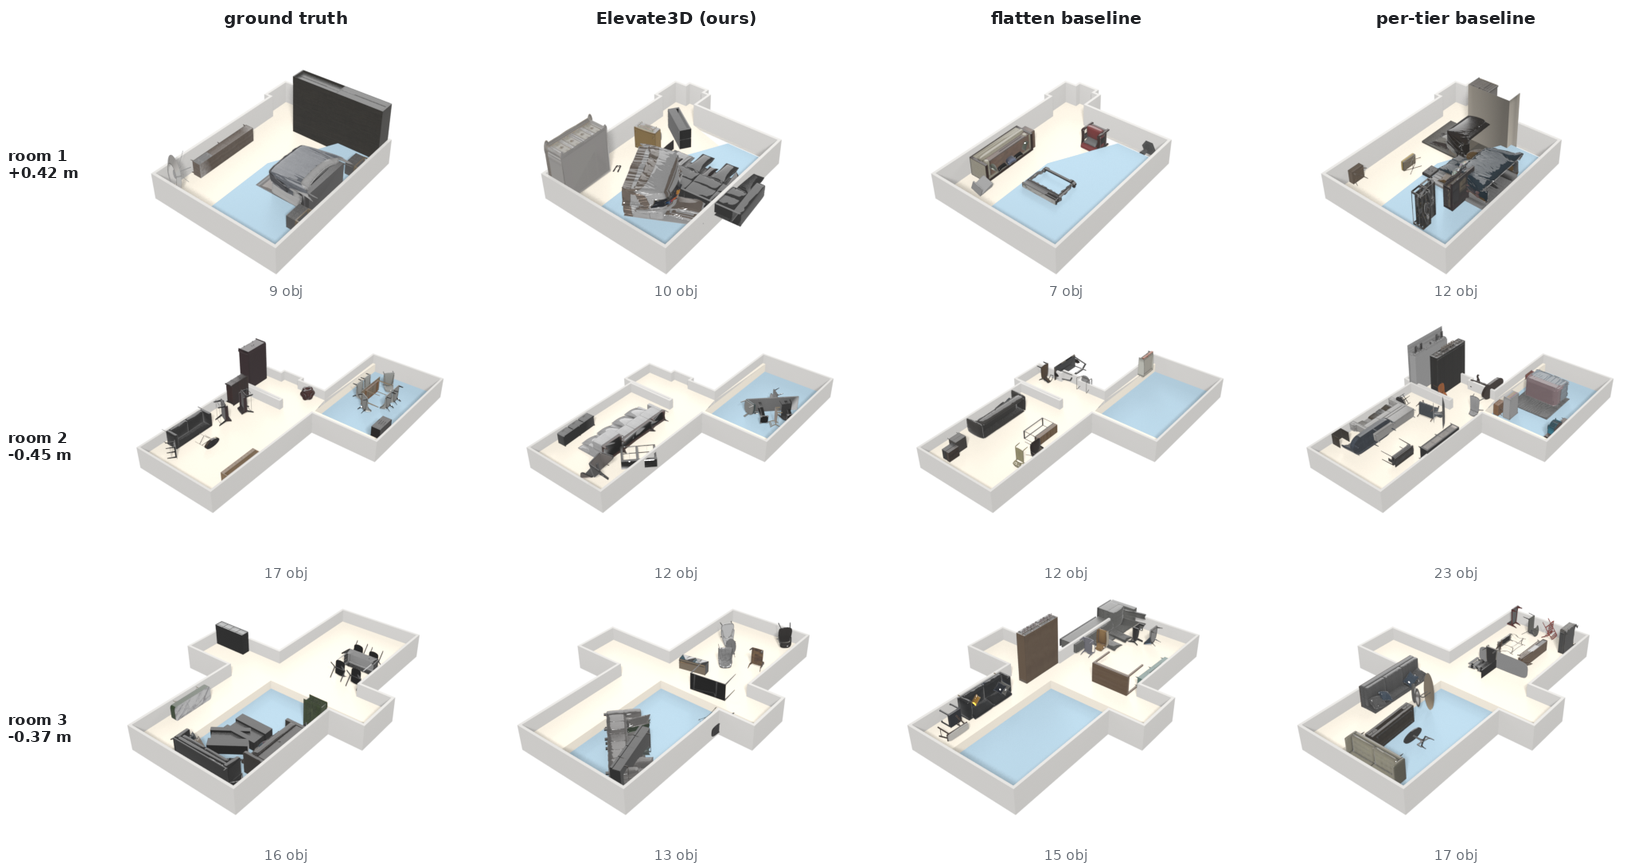
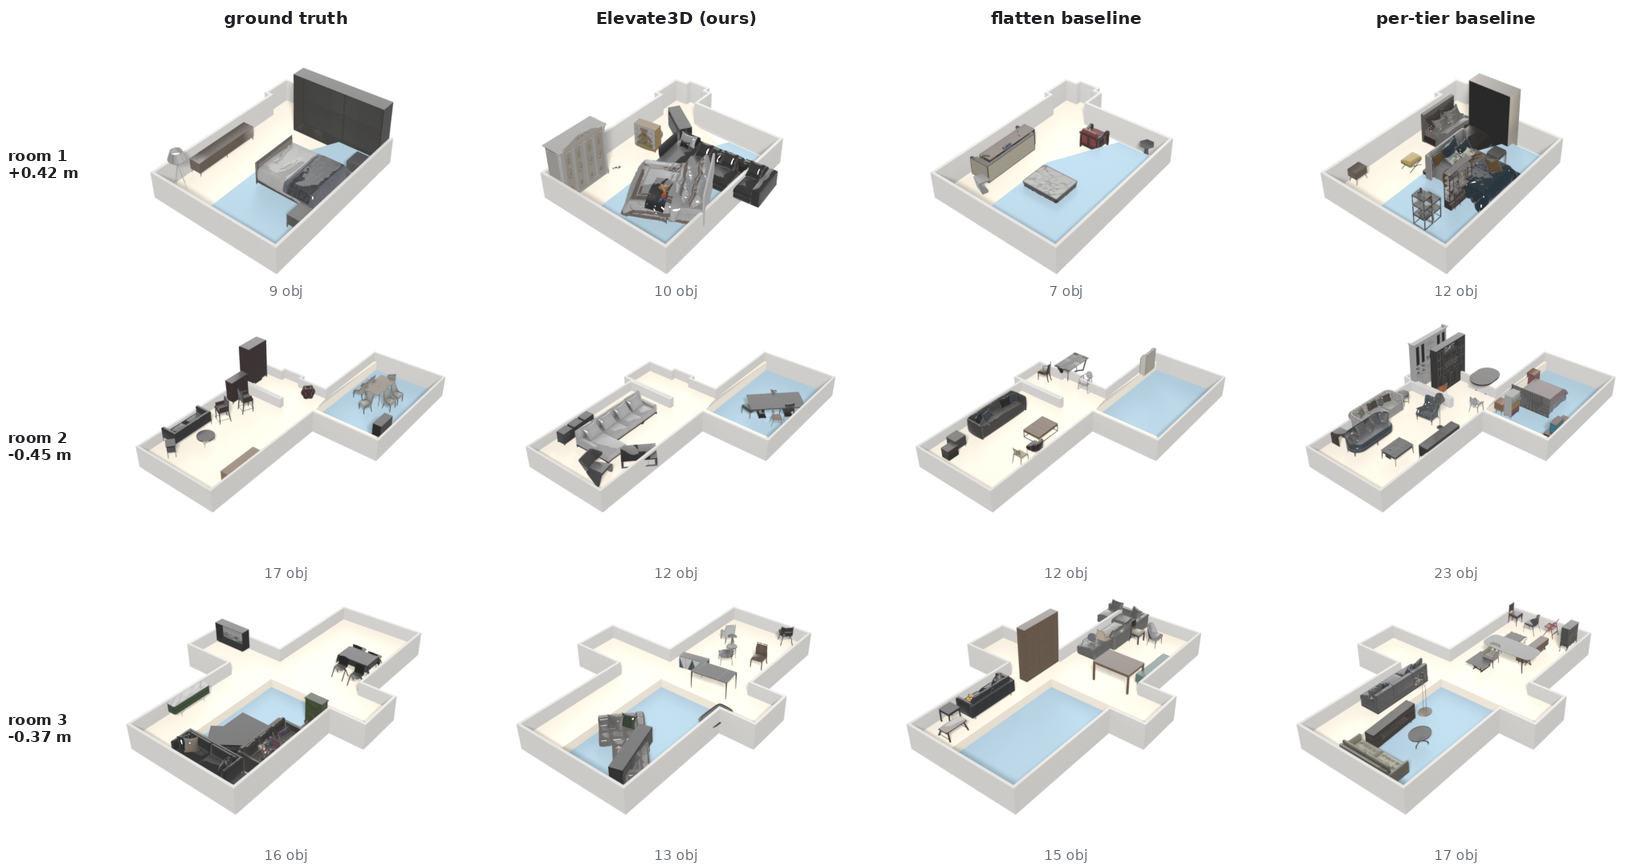
Fix: every rendered object was lying on its back
Two bugs, stacked, both in place_objects.

Blender's OBJ importer expresses the Y-up -> Z-up conversion as an object
rotation of +90 deg about X and leaves the mesh data in the source frame.
Assigning rotation_euler = (0, 0, yaw) for the object's yaw therefore erased
that conversion and tipped every piece of furniture onto its back.

The same thing corrupted the size fit: ob.bound_box is local, so in the
un-converted frame its extents are (width, depth, height) and the code was
scaling our height onto the model's depth.

Baking the transform into the mesh right after import fixes both -- the
object transform is then identity, so the local box is the world box and
yaw composes on top of an upright model. Verified rather than eyeballed:
across the 133 objects in the twelve qualitative panels, the worst height
error and worst seating error are both 0.0000 m.

Also tightens the Figure 5 caption, which the corrected render contradicts
in its detail: flatten assigns nothing to the elevated tier, but that is not
the same as leaving the region empty. In two of the three rooms an object's
footprint still lands over the raised region and, pinned to the datum, is
embedded in the platform -- which is F1b, and the reason F1 is scored in
both directions.

diff --git a/paper.html b/paper.html
@@ -448,10 +448,13 @@ are the same fact.
   <figcaption><strong>Figure 5.</strong> Three held-out FRONT-Elev rooms, one per
   source 3D-FRONT scene, rendered from retrieved 3D-FUTURE meshes (walls cut
   knee-high so the floor stays visible; blue is the non-datum tier). The row of
-  numbers under the tables is visible here: <code>flatten</code> leaves the
-  elevated region empty by construction, which is exactly why its
-  <code>elevation_f1</code> is 0.000 and its violation rate is the lowest in the
-  table. Panels are drawn from rooms whose elevated region covers at least 20 %
+  numbers under the tables is visible here: <code>flatten</code> assigns
+  <i>nothing</i> to the elevated tier in any of the three rooms, which is exactly
+  why its <code>elevation_f1</code> is 0.000. Note what that does <i>not</i>
+  mean — in two of the three, an object's footprint still lands over the raised
+  region, and being pinned to the datum it is embedded in the platform rather
+  than standing on it. That is F1b, and it is the reason F1 is scored in both
+  directions. Panels are drawn from rooms whose elevated region covers at least 20 %
   of the floor; every number in this paper uses the whole distribution, whose
   calibrated median is far smaller.</figcaption>
 </figure>

diff --git a/index.html b/index.html
@@ -631,8 +631,11 @@ S = ( P , { (R<sub>k</sub>, h<sub>k</sub>) }<sub>k=1..K</sub> , T )
     <img src="assets/fig_qualitative.png" alt="GT / ours / flatten / per-tier 在三個保留房間上的 3D 算圖">
     <figcaption><strong>圖 8a.</strong> 三個保留房間（每個來自不同的 3D-FRONT 場景），
     以檢索到的 3D-FUTURE 網格算圖，牆切到膝高以露出樓板，藍色是非基準層。
-    表格裡那一行 0.000 在這裡看得見：<code>flatten</code> 依定義把高程區留空，
-    這正是它 <code>elevation_f1</code> 為 0.000、違規率卻是全表最低的原因。
+    表格裡那一行 0.000 在這裡看得見：三個房間裡 <code>flatten</code> 都<i>沒有</i>
+    把任何物件指派到抬升層，這正是它 <code>elevation_f1</code> 為 0.000 的原因。
+    但要注意這不等於「高程區是空的」——三個房間有兩個仍有物件的足跡壓在抬升區上，
+    而它被釘在基準面，於是是<i>陷進</i>高台裡而不是站在上面。那就是 F1b，
+    也就是 F1 必須雙向計分的原因。
     面板取自高程區佔樓板 20% 以上的房間；論文所有數字用的是完整分布。</figcaption>
   </figure>
 

diff --git a/scripts/render3d.py b/scripts/render3d.py
@@ -196,23 +196,30 @@ def place_objects(bpy, es, idx, max_objects=40):
             bpy.ops.object.join()
         ob = bpy.context.view_layer.objects.active
 
-        # the normalised model is unit-ish; scale its bounding box onto ours
+        # The importer expresses the Y-up -> Z-up conversion as an object
+        # rotation of +90 deg about X, and leaves the mesh data in the source
+        # frame. Setting rotation_euler for the yaw therefore *erases* that
+        # conversion and lays every object on its back. Bake the conversion into
+        # the mesh first; after this the object transform is identity and the
+        # local box is the world box, so the size fit below is measuring height
+        # against height rather than height against depth.
+        bpy.ops.object.transform_apply(location=True, rotation=True, scale=True)
+
         bb = np.array([list(v) for v in ob.bound_box], dtype=float)
         ext = bb.max(0) - bb.min(0)
         ext[ext < 1e-6] = 1.0
         ob.scale = (sz[0] / ext[0], sz[1] / ext[1], sz[2] / ext[2])
-        bpy.context.view_layer.update()
-        bb2 = np.array([ob.matrix_world @ v.co for v in ob.data.vertices[:2000]],
-                       dtype=float) if len(ob.data.vertices) else None
         ob.rotation_euler = (0.0, 0.0, float(o.yaw))
         bpy.context.view_layer.update()
-        # sit it on its support: recompute the world box after the rotation
+
+        # sit it on its support: the world box after scale and yaw
         vs = np.array([ob.matrix_world @ v.co for v in ob.data.vertices],
                       dtype=float)
-        centre = (vs.min(0) + vs.max(0)) / 2.0
+        lo, hi = vs.min(0), vs.max(0)
+        centre = (lo + hi) / 2.0
         ob.location = (float(o.xy[0]) - centre[0] + ob.location[0],
                        float(o.xy[1]) - centre[1] + ob.location[1],
-                       z - vs.min(0)[2] + ob.location[2])
+                       z - lo[2] + ob.location[2])
         ob.name = f"obj_{o.oid}"
         placed += 1
     return placed
